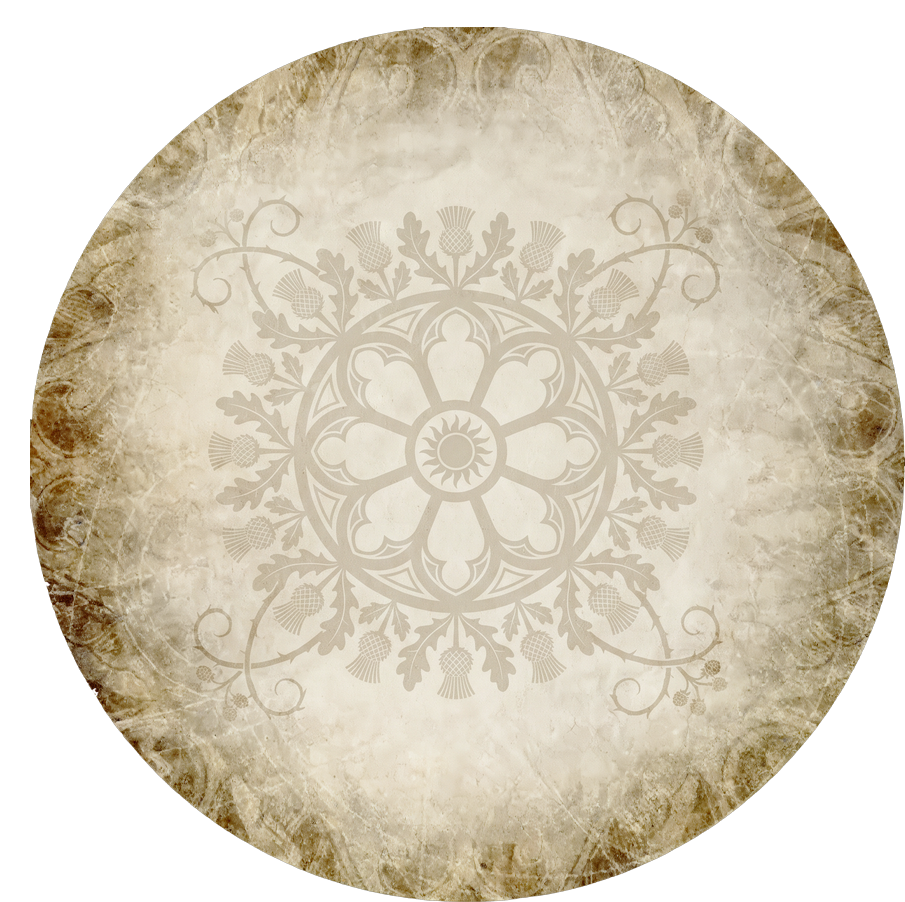
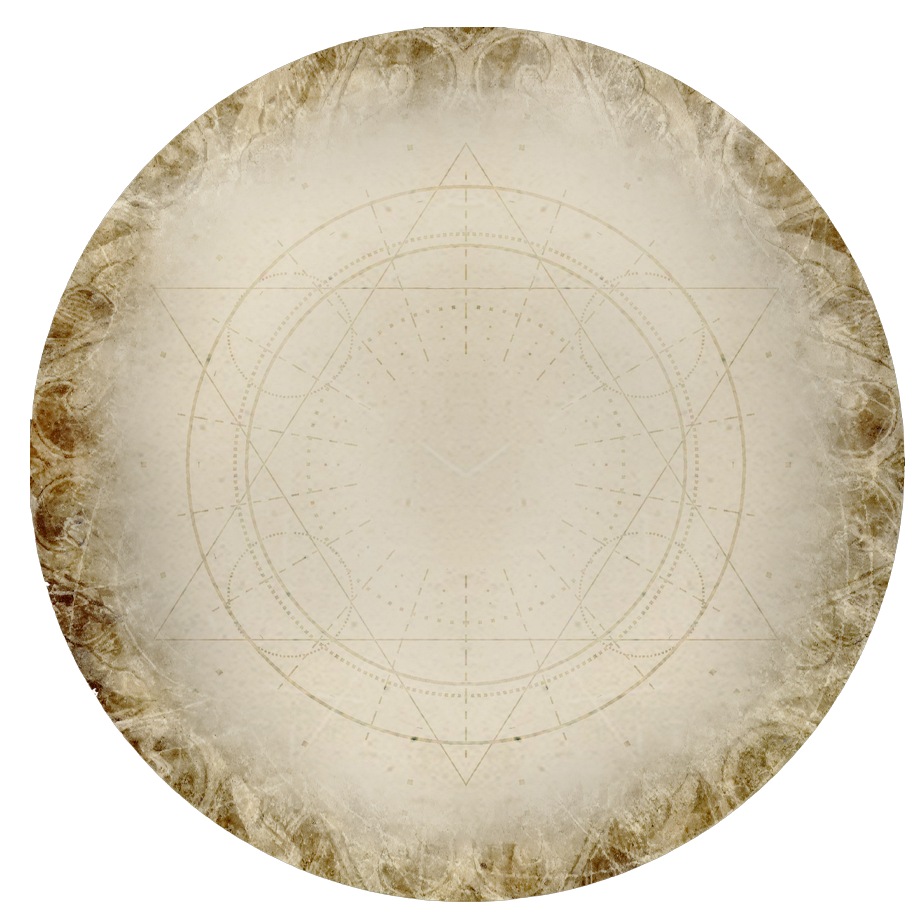
Token Tool: script sheet parchment inside the official token rim
The centre of the token background is now the parchment and faint
hexagram from the script sheet template (its left half and mirror image,
since the hexagram runs off the sheet), recoloured to the official
paper's tone and shaded by its vignette. The rim stays the official
token's own pixels.

Claude-Session: https://claude.ai/code/session_013EhxSeV1i3VecNSe2Ff2bV

Changed region(s): [[0.0928, 0.1863, 0.8354, 0.8692], [0.8663, 0.4967, 0.8972, 0.5277], [0.1238, 0.5898, 0.1547, 0.6208]]

diff --git a/CLAUDE.md b/CLAUDE.md
@@ -5136,15 +5136,17 @@ keeps `content-visibility: auto`.
    `_true_circle()` trims `frame_bare.png` to an exact circle on load — the
    file has a flat patch on its left edge that printed as a nub on every
    token.
-   **Only the centre of `frame_bare.png` is new** (2026-10, the owner's
-   call): the paper, shading and rim are the official token's own pixels,
-   and the faint medallion in the middle was replaced with a rose window
-   ringed by thistles and oak leaves, so the token looks official without
-   being one. It was made by having OpenArt edit the official file and then
-   pasting only the centre back (within radius ~310px of the token centre,
-   blended out by ~370px). The owner rejected a background made entirely
-   from scratch because its edge shading was wrong, so any later redesign
-   should keep the official rim.
+   **The inside of `frame_bare.png` is the script sheet's parchment**
+   (2026-10, the owner's call): the rim, its shading and scrollwork are the
+   official token's own pixels, and inside it sits the parchment and faint
+   hexagram from `assets/script-studio/template/bg-parchment.jpg`, so the
+   token looks official without being one. The hexagram runs off that
+   sheet's right edge, so the centre is the sheet's left half and its mirror
+   image (the axis is x=1142). It is recoloured to the official paper's tone
+   and darkened by the official vignette, then blended out into the rim
+   between radius ~300 and ~420px of the token centre. The owner rejected a
+   background made entirely from scratch because its edge shading was wrong,
+   so any later redesign should keep the official rim.
    The stock **first-night sprig** is redrawn on load too (`_stand_out()`):
    stronger colour and a 0.5px dark ink line, because its olive and orange
    vanished into the brown rim, and grown by `FN_GROW` (1.2) from the rim,
